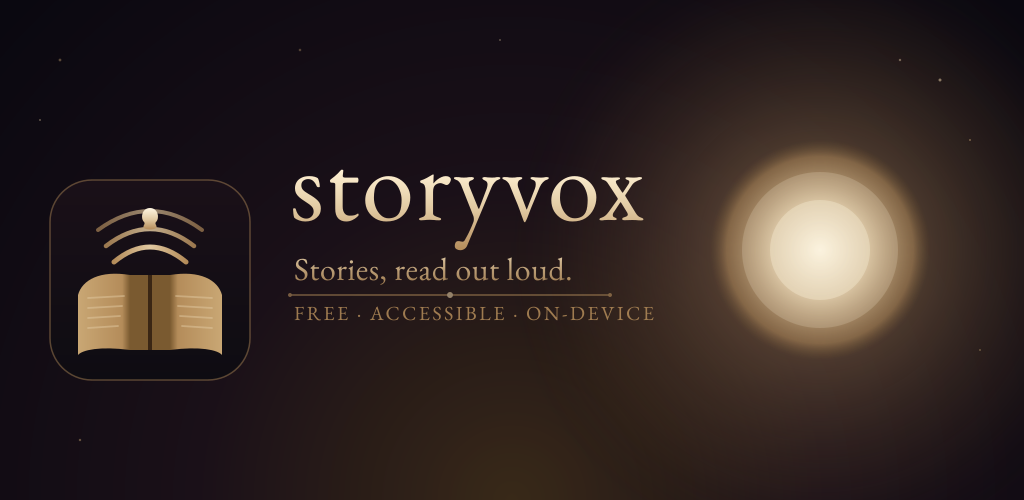
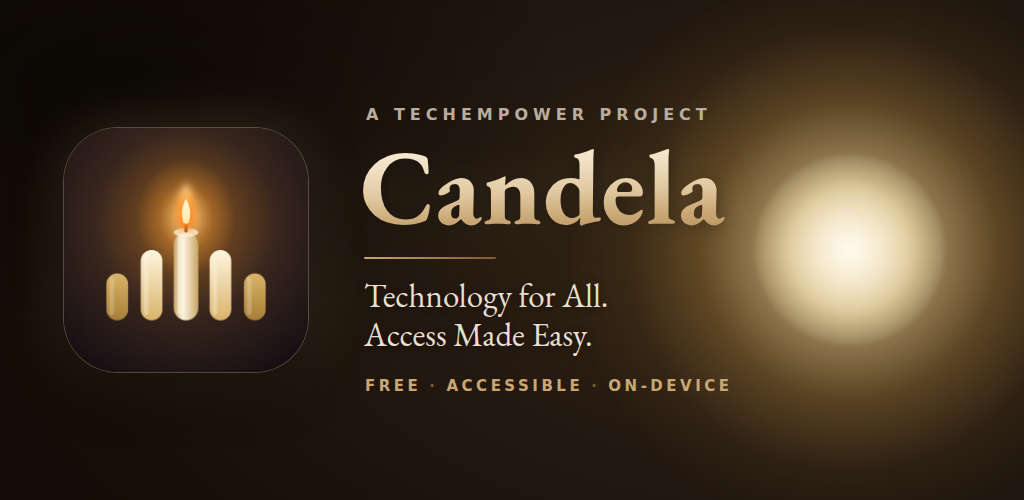
chore(play-store): rebrand feature graphic to Candela (#1198) (#1212)
Replace the stale storyvox-era 1024×500 storefront banner with the
rebranded Candela graphic, plus a reproducible HTML generator.

- Library Nocturne palette (app BrassRamp): "A TechEmpower Project"
  eyebrow, brass `Candela` wordmark (EB Garamond), mission tagline
  "Technology for All. Access Made Easy.", and a FREE · ACCESSIBLE ·
  ON-DEVICE strip. Candle adaptive-icon tile at left, candlelight hero
  glow on the right — right ~30% kept clear of headline copy for the
  Play Console install-button overlay.
- feature-graphic.html: self-contained source (render + alpha-flatten
  commands in the header); regenerate via headless Chrome.
- Output is opaque 24-bit RGB (no alpha, per Play Store), exactly
  1024×500, 320 KB — within Google's 1 MB feature-graphic cap. Chose
  crisp lossless over a 256-colour palette to avoid banding in the glow.
- v1.0/INDEX.md row updated to match the new design.

diff --git a/docs/play-store/feature-graphic.html b/docs/play-store/feature-graphic.html
@@ -1,0 +1,171 @@
+<!--
+  Candela — Play Store feature graphic (1024×500) · issue #1198
+
+  Source generator for docs/play-store/v1.0/feature-1024x500.png. Rebuild
+  (run from the repo root) with:
+
+    google-chrome --headless=new --disable-gpu --force-device-scale-factor=1 \
+      --allow-file-access-from-files --hide-scrollbars --window-size=1024,500 \
+      --screenshot="$PWD/docs/play-store/v1.0/feature-raw.png" \
+      "file://$PWD/docs/play-store/feature-graphic.html"
+
+  Then flatten alpha to opaque RGB (Play Store requires a 24-bit PNG with no
+  transparency) and strip metadata:
+
+    convert docs/play-store/v1.0/feature-raw.png -background black \
+      -alpha remove -alpha off -strip -define png:compression-level=9 \
+      docs/play-store/v1.0/feature-1024x500.png && rm docs/play-store/v1.0/feature-raw.png
+
+  Palette is the app's "Library Nocturne" BrassRamp (core-ui/.../theme/Color.kt):
+  Brass100 #FDF2DD · Brass300 #E0C8A0 · Brass400 #C9A774 · Brass500 #B48C5A ·
+  Brass900 #1C1209 · OnSurfaceDark #E8DFD1 · OnSurfaceVariantDark #B8AE9F.
+-->
+<style>
+  html, body { margin: 0; padding: 0; }
+  /* Exact canvas — Play Store feature graphic is 1024×500. */
+  .stage {
+    position: relative;
+    width: 1024px;
+    height: 500px;
+    overflow: hidden;
+    font-family: 'EB Garamond', Georgia, 'Times New Roman', serif;
+    /* Deep warm "nocturne" base: near-black brown, warmer toward the hero. */
+    background:
+      radial-gradient(120% 140% at 78% 50%, #3a2a14 0%, #241910 30%, #160f08 60%, #0d0805 100%);
+  }
+
+  /* Candlelight hero glow on the right third (kept clear of headline text so
+     Play Console's overlaid install button doesn't collide with copy). */
+  .glow {
+    position: absolute;
+    top: 50%;
+    left: 83%;
+    width: 560px;
+    height: 560px;
+    transform: translate(-50%, -50%);
+    border-radius: 50%;
+    background: radial-gradient(circle,
+      rgba(255,243,214,0.95) 0%,
+      rgba(255,224,158,0.55) 18%,
+      rgba(212,160,80,0.28) 38%,
+      rgba(120,90,48,0.12) 56%,
+      rgba(0,0,0,0) 72%);
+    filter: blur(2px);
+  }
+  /* Tight bright core, like a flame's center. */
+  .glow::after {
+    content: "";
+    position: absolute;
+    top: 50%; left: 50%;
+    width: 190px; height: 190px;
+    transform: translate(-50%, -50%);
+    border-radius: 50%;
+    background: radial-gradient(circle, rgba(255,250,238,0.98) 0%, rgba(255,236,190,0.6) 45%, rgba(255,236,190,0) 75%);
+  }
+
+  /* Subtle top-left vignette for depth. */
+  .vignette {
+    position: absolute; inset: 0;
+    background: radial-gradient(80% 90% at 12% 18%, rgba(0,0,0,0.45) 0%, rgba(0,0,0,0) 55%);
+    pointer-events: none;
+  }
+
+  .content {
+    position: absolute;
+    inset: 0;
+    display: flex;
+    align-items: center;
+    gap: 52px;
+    padding: 0 64px;
+    box-sizing: border-box;
+  }
+
+  /* App-icon tile (rounded square, like the storefront icon chip). */
+  .tile {
+    flex: 0 0 auto;
+    width: 244px;
+    height: 244px;
+    border-radius: 54px;
+    overflow: hidden;
+    box-shadow:
+      0 0 0 1px rgba(224,200,160,0.30),
+      0 18px 48px rgba(0,0,0,0.55),
+      0 0 60px rgba(255,224,158,0.18);
+  }
+  .tile img { width: 100%; height: 100%; display: block; object-fit: cover; }
+
+  .copy { display: flex; flex-direction: column; }
+
+  /* Mission/brand attribution above the wordmark: TechEmpower presents Candela. */
+  .eyebrow {
+    margin: 0 0 12px 6px;
+    font-family: 'DejaVu Sans', 'Liberation Sans', Arial, sans-serif;
+    font-size: 16px;
+    font-weight: 600;
+    letter-spacing: 5px;
+    text-transform: uppercase;
+    color: #B8AE9F;
+  }
+
+  .wordmark {
+    font-size: 106px;
+    line-height: 0.96;
+    font-weight: 600;
+    letter-spacing: 1px;
+    /* Brushed-brass gradient fill. */
+    background: linear-gradient(178deg, #FDF2DD 0%, #F0E0C4 30%, #E0C8A0 55%, #C9A774 78%, #B48C5A 100%);
+    -webkit-background-clip: text;
+    background-clip: text;
+    color: transparent;
+    -webkit-text-fill-color: transparent;
+    text-shadow: 0 1px 0 rgba(0,0,0,0.0);
+    filter: drop-shadow(0 2px 10px rgba(0,0,0,0.45)) drop-shadow(0 0 18px rgba(255,224,158,0.10));
+    margin: 0;
+  }
+
+  /* Thin brass rule between wordmark and tagline. */
+  .rule {
+    width: 132px;
+    height: 2px;
+    margin: 20px 0 18px 4px;
+    background: linear-gradient(90deg, #C9A774 0%, #7A5A30 100%);
+    border-radius: 2px;
+  }
+
+  .tagline {
+    font-size: 33px;
+    line-height: 1.18;
+    font-weight: 500;
+    color: #E8DFD1;
+    margin: 0 0 0 4px;
+    text-shadow: 0 1px 6px rgba(0,0,0,0.5);
+  }
+
+  .footer {
+    margin: 22px 0 0 5px;
+    font-family: 'DejaVu Sans', 'Liberation Sans', Arial, sans-serif;
+    font-size: 15px;
+    font-weight: 600;
+    letter-spacing: 3.5px;
+    text-transform: uppercase;
+    color: #C9A774;
+  }
+  .footer .dot { color: #7A5A30; padding: 0 8px; }
+</style>
+
+<div class="stage">
+  <div class="glow"></div>
+  <div class="vignette"></div>
+  <div class="content">
+    <div class="tile"><img src="v1.0/icon-512.png" alt="Candela icon"></div>
+    <div class="copy">
+      <div class="eyebrow">A&nbsp;TechEmpower&nbsp;Project</div>
+      <h1 class="wordmark">Candela</h1>
+      <div class="rule"></div>
+      <p class="tagline">Technology for All.<br>Access Made Easy.</p>
+      <div class="footer">
+        Free<span class="dot">·</span>Accessible<span class="dot">·</span>On&#8209;Device
+      </div>
+    </div>
+  </div>
+</div>

diff --git a/docs/play-store/v1.0/INDEX.md b/docs/play-store/v1.0/INDEX.md
@@ -25,7 +25,7 @@ with Notion banner-fetch enabled.
 | Field | File | Dimensions | Notes |
 |---|---|---|---|
 | **App icon (high-res)** | `icon-512.png` | 512×512 PNG | Library Nocturne adaptive launcher icon rendered to flat 512×512. Brass book on warm-dark with sun-disk halo, sound-wave arcs, and candle flame. No alpha. |
-| **Feature graphic** | `feature-1024x500.png` | 1024×500 PNG | Storefront banner. Library Nocturne palette, brass `Candela` wordmark at left-center, tagline "Stories, read out loud." Hero sun-disk glow on right. Adaptive-icon book tile on the left. Right ~30 % kept clear for Play Console's overlaid install button. Under 200 KB. |
+| **Feature graphic** | `feature-1024x500.png` | 1024×500 PNG | Storefront banner (rebranded → Candela, #1198). Library Nocturne palette: "A TechEmpower Project" eyebrow, brass `Candela` wordmark, mission tagline "Technology for All. Access Made Easy.", and a `FREE · ACCESSIBLE · ON-DEVICE` strip. Candle adaptive-icon tile at left; candlelight hero glow on the right (right ~30 % kept clear of headline copy for the overlaid install button). Opaque RGB, no alpha. Regenerate from [`../feature-graphic.html`](../feature-graphic.html) via headless Chrome (command in the file header). |
 | **Phone screenshots × 4** | `phone-01-library-hero.png` `phone-02-techempower-home.png` `phone-03-browse-resources.png` `phone-04-fiction-detail.png` | 1080×2640 (9:22) | Captured on Galaxy Z Flip 3 portrait. Min 4 satisfied. |
 | **7-inch tablet × 6** | `tablet-01-…` … `tablet-06-…` | 1340×800 (≈16:9.5) | Captured on Tab A7 Lite landscape. Play Console accepts a single tablet set for both 7" and 10" buckets — submit the same six in the 10-inch bucket. |
 | **10-inch tablet × 6** | same six tablet files | 1340×800 | Submit the same six tablet PNGs. |